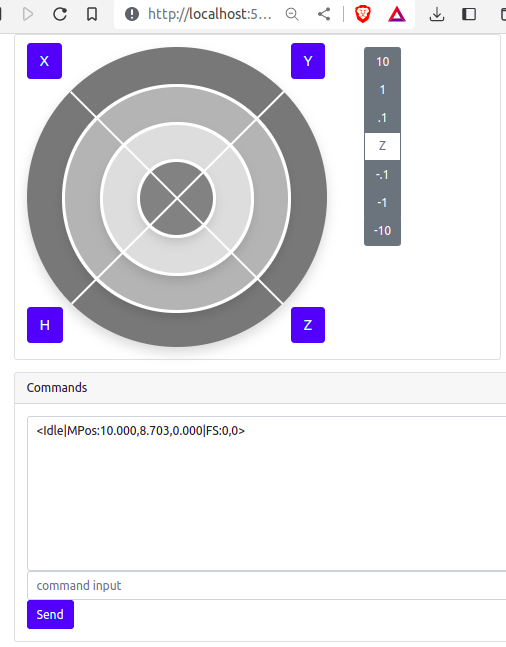
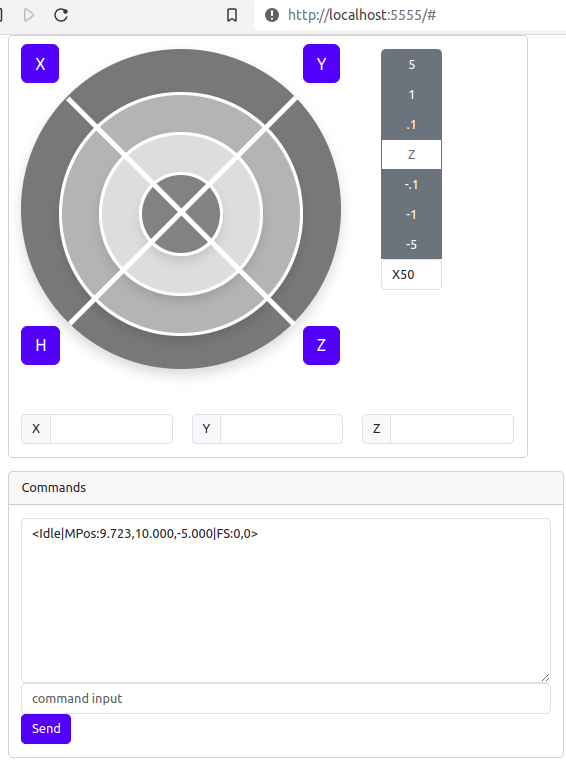
xyz

diff --git a/index.html b/index.html
@@ -1,14 +1,15 @@
 <html lang="en" data-bs-theme="light">
 <head>
     <meta name="viewport" content="width=device-width, initial-scale=1">
-<link href="https://cdn.jsdelivr.net/npm/bootstrap@5.3.0-alpha3/dist/css/bootstrap.min.css" rel="stylesheet" integrity="sha384-KK94CHFLLe+nY2dmCWGMq91rCGa5gtU4mk92HdvYe+M/SXH301p5ILy+dN9+nJOZ" crossorigin="anonymous">
+    <link href="https://cdn.jsdelivr.net/npm/bootstrap@5.3.0-alpha3/dist/css/bootstrap.min.css" rel="stylesheet"
+          integrity="sha384-KK94CHFLLe+nY2dmCWGMq91rCGa5gtU4mk92HdvYe+M/SXH301p5ILy+dN9+nJOZ" crossorigin="anonymous">
     <script type="application/javascript" src="/js/main.js"></script>
     <link href="css/style.css" rel="stylesheet">
 
 </head>
 
 <body>
-<div class="container" >
+<div class="container">
     <div class="col-8">
 
         <div class="card mb-3" style="min-width: 650px; ">
@@ -17,11 +18,13 @@
                 <div class="col-3 p-3" style="min-width: 450px; ">
 
                     <span class="btns">
-                        <button type="button" class="btn btn-primary btn-lg homebtn"  onclick="sendHome(this, 'X')" >X</button>
-                        <button type="button" class="btn btn-primary btn-lg homebtn rightposition" onclick="sendHome(this, 'Y')">Y</button>
+                        <button type="button" class="btn btn-primary btn-lg homebtn"
+                                onclick="sendHome(this, 'X')">X</button>
+                        <button type="button" class="btn btn-primary btn-lg homebtn rightposition"
+                                onclick="sendHome(this, 'Y')">Y</button>
                     </span>
 
-                    <div id="jog" class="circle0 shadow" >
+                    <div id="jog" class="circle0 shadow">
                         <a href="#" class="stretched-link" style="cursor: crosshair;"></a>
                         <div class="linev"></div>
                         <div class="lineh"></div>
@@ -31,28 +34,56 @@
                             </div>
                         </div>
                         <span class="btns btm">
-                            <button type="button" class="btn btn-primary btn-lg homebtn" onclick="sendHome(this, '')">H</button>
-                            <button type="button" class="btn btn-primary btn-lg homebtn rightposition" onclick="sendHome(this, 'Y')">Z</button>
+                            <button type="button" class="btn btn-primary btn-lg homebtn"
+                                    onclick="sendHome(this, '')">H</button>
+                            <button type="button" class="btn btn-primary btn-lg homebtn rightposition"
+                                    onclick="sendHome(this, 'Y')">Z</button>
                         </span>
 
 
                     </div> <!--/jog-->
+                    <br/>
+
                 </div>
 
-                <div class="col p-3">
+                <div class="col-2 p-3">
 
                     <div class="btn-group-justified btn-group-md btn-group-vertical">
 
-                        <button type="button" class="btn btn-secondary" onclick="sendCommand2(this, 10, 'Z')">10</button>
+                        <button type="button" class="btn btn-secondary" onclick="sendCommand2(this, 5, 'Z')">5</button>
                         <button type="button" class="btn btn-secondary" onclick="sendCommand2(this, 1, 'Z')">1</button>
-                        <button type="button" class="btn btn-secondary" onclick="sendCommand2(this, 0.1, 'Z')">.1</button>
-                        <button type="button" class="btn btn-outline-secondary" >Z</button>
-                        <button type="button" class="btn btn-secondary" onclick="sendCommand2(this, -0.1, 'Z')">-.1</button>
-                        <button type="button" class="btn btn-secondary" onclick="sendCommand2(this, -1, 'Z')">-1</button>
-                        <button type="button" class="btn btn-secondary" onclick="sendCommand2(this, -10, 'Z')">-10</button>
+                        <button type="button" class="btn btn-secondary" onclick="sendCommand2(this, 0.1, 'Z')">.1
+                        </button>
+                        <button type="button" class="btn btn-outline-secondary">Z</button>
+                        <button type="button" class="btn btn-secondary" onclick="sendCommand2(this, -0.1, 'Z')">-.1
+                        </button>
+                        <button type="button" class="btn btn-secondary" onclick="sendCommand2(this, -1, 'Z')">-1
+                        </button>
+                        <button type="button" class="btn btn-secondary" onclick="sendCommand2(this, -5, 'Z')">-5
+                        </button>
 
+                        <input id="jog_help" class="form-control" type="text" value="" aria-label="example" readonly>
                     </div>
-
+                </div>
+            </div>
+            <div class="row p-3">
+                <div class="col">
+                    <div class="input-group">
+                        <div class="input-group-text">X</div>
+                        <input id="x_val" class="form-control" type="text" value="" aria-label="X" readonly>
+                    </div>
+                </div>
+                <div class="col">
+                    <div class="input-group">
+                        <div class="input-group-text">Y</div>
+                        <input id="y_val" class="form-control" type="text" value="" aria-label="X" readonly>
+                    </div>
+                </div>
+                <div class="col">
+                    <div class="input-group">
+                        <div class="input-group-text">Z</div>
+                        <input id="z_val" class="form-control" type="text" value="" aria-label="X" readonly>
+                    </div>
                 </div>
             </div>
 
@@ -77,27 +108,41 @@
     </div> <!--/coll-->
 </div>
 
-    <script src="https://cdn.jsdelivr.net/npm/bootstrap@5.3.0-alpha3/dist/js/bootstrap.bundle.min.js" integrity="sha384-ENjdO4Dr2bkBIFxQpeoTz1HIcje39Wm4jDKdf19U8gI4ddQ3GYNS7NTKfAdVQSZe" crossorigin="anonymous"></script>
-    <script>
+<script>
 
-document.getElementById('jog').onclick = function(e) {
-      // e = Mouse click event.
+    document.getElementById('jog').onclick = function(e) {
+          // e = Mouse click event.
+          if (e.target.tagName == "A") {
 
-      if (e.target.tagName == "A") {
-
-      var rect = e.target.getBoundingClientRect();
-      console.log(rect.top, rect.left);
-      var x = e.clientX - rect.left ; //x position within the element.
-      var y = e.clientY - rect.top -9;  //y position within the element.
-      var p =  getCirclePart(x,y);
-<!--      console.log(x,y);-->
-      console.log(p);
+              var rect = e.target.getBoundingClientRect();
+              console.log(rect.top, rect.left);
+              var x = e.clientX - rect.left ; //x position within the element.
+              var y = e.clientY - rect.top -9;  //y position within the element.
+              var p =  getCirclePart(x,y);
+              console.log(p);
+        }
     }
-}
+
+        document.getElementById('jog').onmousemove = function(e) {
+          // e = Mouse click event.
+          if (e.target.tagName == "A") {
+              var rect = e.target.getBoundingClientRect();
+              var x = e.clientX - rect.left ; //x position within the element.
+              var y = e.clientY - rect.top -9;  //y position within the element.
+              var p =  getCirclePart(x,y);
+              if (typeof p !== 'undefined') {
+                document.getElementById('jog_help').value = p;
+              }
+              if (typeof p == 'undefined') {
+                document.getElementById('jog_help').value = '';
+              }
+        }
+    }
 
 
-    </script>
-
+</script>
+<script src="https://cdn.jsdelivr.net/npm/bootstrap@5.3.0-alpha3/dist/js/bootstrap.bundle.min.js"
+        integrity="sha384-ENjdO4Dr2bkBIFxQpeoTz1HIcje39Wm4jDKdf19U8gI4ddQ3GYNS7NTKfAdVQSZe"
+        crossorigin="anonymous"></script>
 </body>
-
 </html>

diff --git a/readme.md b/readme.md
@@ -7,8 +7,9 @@ It uses websockets for communicating to the device.
 <img src="https://raw.githubusercontent.com/Alex-CodeLab/webcnc/main/docs/jog.png" width="300">
 darkmode
 <img src="https://raw.githubusercontent.com/Alex-CodeLab/webcnc/main/docs/darkmode.png" width="300">
+
 ### Status:
-not ready. 
+not ready, needs work.  
 
 todo:
 - [x] jog, pure css 
